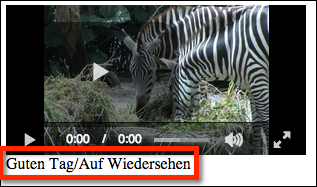
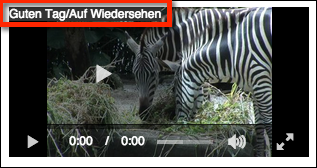
Content and image updates

diff --git a/en/video-cloud/brightcove-player/guides/localize-plugin.html b/en/video-cloud/brightcove-player/guides/localize-plugin.html
@@ -42,17 +42,18 @@
 			<div id="top" class="section">
 				<h1>Localize Plugins</h1>
 				<!-- Place document intro sentence(s) here -->
-				<p>This topic shows how a plugin developer can localize a Brightcove Player plugin. Note that this is NOT the same as using the built-in localization or the player itself.</p>
+				<p>This topic shows how a plugin developer can localize a Brightcove Player plugin. Note that this is NOT the same as using the built-in localization for the player itself.</p>
+				<p>As is the suggested in the <a href="http://docs.brightcove.com/en/video-cloud/brightcove-player/guides/plugin-dev-quick-start.html">Quick Start to Plugin Development</a>, the application will be developed locally then converted into a plugin.</p>
 			</div>
 			<div id="addlanguage" class="section">
 				<h2>Add language(s)</h2>
 				<p>You can choose the languages to support in a plugin. For each plugin you must have a set of key-value pairs with the English language as the key and the corresponding localized language as a value. You do this by using Videojs' <code>addLanguage()</code> method. The following code shows adding German translations to a page:</p>
-				<p><code data-gist-id="f5d8f740f25e0dfd2e56" data-gist-hide-footer="true" data-gist-line="22-25"></code></p>
+				<p><code data-gist-id="f5d8f740f25e0dfd2e56" data-gist-hide-footer="true" data-gist-line="28-31"></code></p>
 			</div>
 			<div id="localizecontent" class="section">
 				<h2>Localize content</h2>
-				<p>Once you have added the languages and vocabulary you wish to use in the localization process you can use the player's <code>localize()</code> method to perform the actual localization. The following shows injecting a simple string into an HTML with an ID of <code>textTarget</code>:</p>
-				<p><code data-gist-id="f5d8f740f25e0dfd2e56" data-gist-hide-footer="true" data-gist-line="26-29" data-gist-highlight-line="28"></code></p>
+				<p>Once you have added the languages and vocabulary you wish to use in the localization process you can use the player's <code>localize()</code> method to perform the actual localization. The following shows a string into an HTML <code>&lt;span&gt;</code>, then appended to the end of the video tag:</p>
+				<p><code data-gist-id="f5d8f740f25e0dfd2e56" data-gist-hide-footer="true" data-gist-line="33-36" data-gist-highlight-line="35"></code></p>
 				<p>The <code>localize()</code> method takes the English key word as a string argument, <code>myPlayer.localize("Hello")</code>, and displays that string unless the browser's preferred language is available, in which case the localized word will be substituted.</p>
 			</div>
       <div id="setdisplaylanguage" class="section">
@@ -62,6 +63,18 @@
         <p><img src="/en/video-cloud/brightcove-player/guides/assets/localize-plugin-english.png"></p>
         <p>If the browser's preferred language is set to an available language you will see the localized version, as shown here:</p>
         <p><img src="/en/video-cloud/brightcove-player/guides/assets/localize-plugin-deutsch.png"></p>
+      </div>
+      <div id="plugincode" class="section">
+        <h2>Plugin code</h2>
+        <p>As documented in the <a href="http://docs.brightcove.com/en/video-cloud/brightcove-player/guides/plugin-dev-quick-start.html">Quick Start to Plugin Development</a>, you put the code into a file that contains the plugin.</p>
+				<ul>
+				    <li>Lines 27,37: Standard syntax to define a Brightcove Player plugin. Notice for later reference the name of the plugin is <strong>pluginLocalize</strong>.</li>
+				    <li>Lines 28-31: Adds German language localization.</li>
+				    <li>Lines 32-36: Dynamically creates and HTML <code>span</code> element, populates it and appends to the player code.</li>
+				</ul>
+				<p><code data-gist-id="f5d8f740f25e0dfd2e56" data-gist-hide-footer="true" data-gist-line="27-37"></code></p>
+				<p>For testing purposes use the plugin locally in a page that utilizes the embed_in_page player implementation.</p>
+				<p><code data-gist-id="f5d8f740f25e0dfd2e56" data-gist-hide-footer="true" data-gist-line="1-23" data-gist-highlight-line="7,19,20"></code></p>
       </div>
 			<div class="section" id="BCLreferences">
 				<h2>Related Topics</h2>
